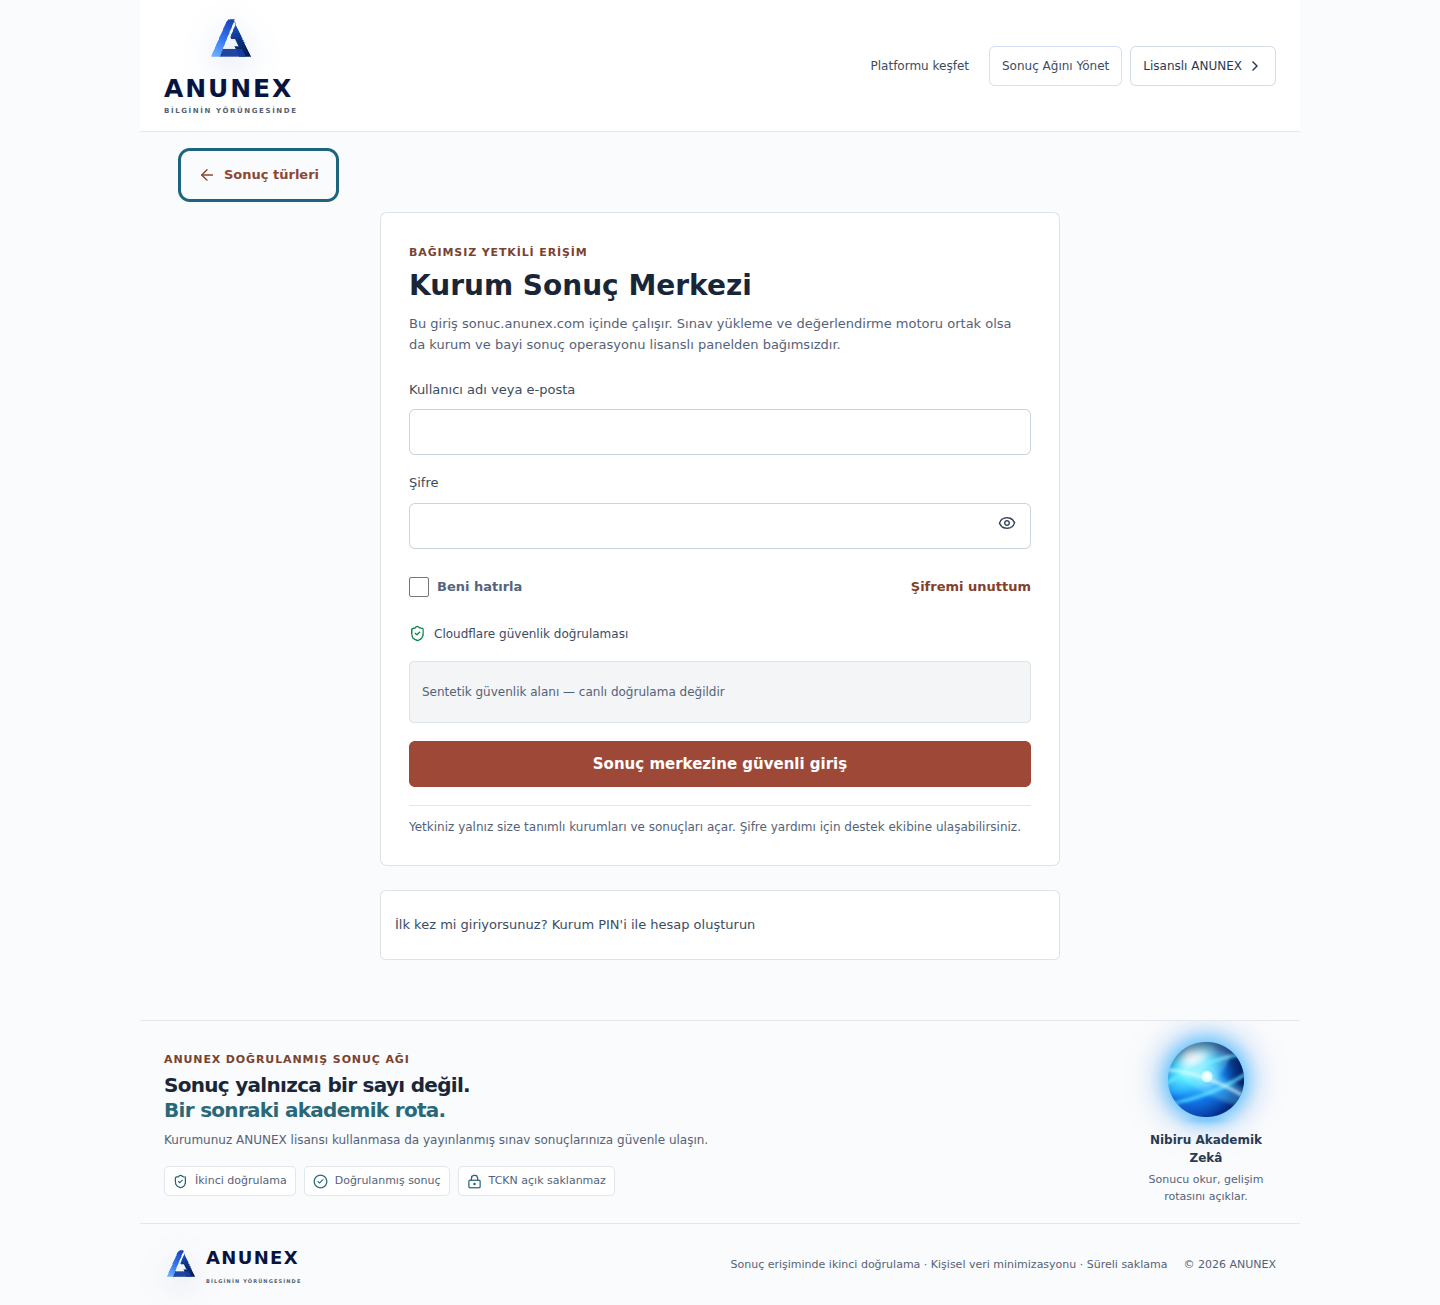
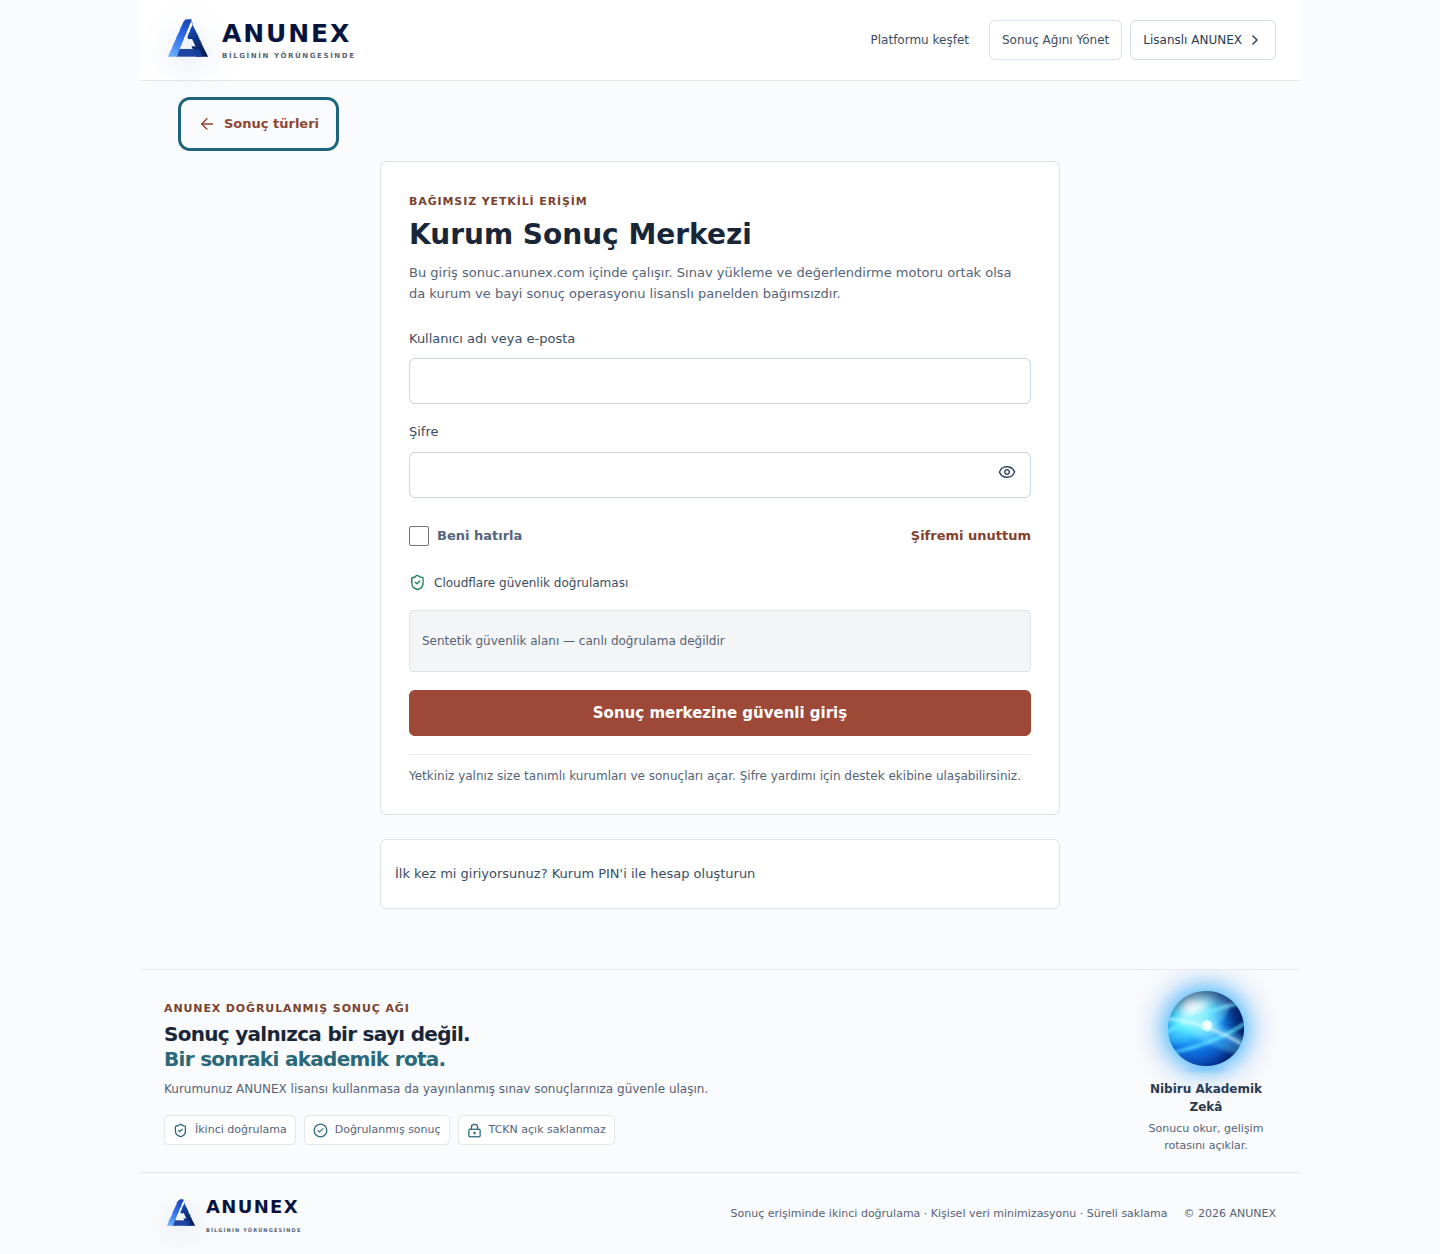
design(d007): Astra reference polish and current-main visual verification

diff --git a/src/pages/approved-result-institution.css b/src/pages/approved-result-institution.css
@@ -44,7 +44,7 @@
  .result-portal.approved-result-portal[data-result-role=INSTITUTION]:not(.admin-portal-mode) th { padding:12px 14px; background:#f2f5f8; color:#28384d; font-size:12px; font-weight:600; letter-spacing:0; text-transform:none; white-space:nowrap; }
  .result-portal.approved-result-portal[data-result-role=INSTITUTION]:not(.admin-portal-mode) td { padding:14px; border-top:1px solid #e2e7ed; color:#35465d; font-size:13px; line-height:1.5; vertical-align:middle; }
  .result-portal.approved-result-portal[data-result-role=INSTITUTION]:not(.admin-portal-mode) td small { color:#536176; font-size:12px; }
- .result-portal.approved-result-portal[data-result-role=INSTITUTION]:not(.admin-portal-mode) .summary-strip { display:grid; grid-template-columns:repeat(5,minmax(0,1fr)); gap:0; border:1px solid #dde4e8; border-radius:6px; overflow:hidden; background:#fff; }
+ .result-portal.approved-result-portal[data-result-role=INSTITUTION]:not(.admin-portal-mode) .summary-strip { display:grid; grid-template-columns:repeat(3,minmax(0,1fr)); gap:0; border:1px solid #dde4e8; border-radius:6px; overflow:hidden; background:#fff; }
  .result-portal.approved-result-portal[data-result-role=INSTITUTION]:not(.admin-portal-mode) .summary { min-width:0; padding:14px; border:0; border-right:1px solid #e2e7ed; border-radius:0; box-shadow:none; }
  .result-portal.approved-result-portal[data-result-role=INSTITUTION]:not(.admin-portal-mode) .summary span { color:#536176; font-size:12px; }
  .result-portal.approved-result-portal[data-result-role=INSTITUTION]:not(.admin-portal-mode) .summary strong { color:#24364b; font-size:23px; font-weight:600; }

diff --git a/docs/design/approved-result-institution/README.md b/docs/design/approved-result-institution/README.md
@@ -13,13 +13,11 @@ Yalnız görünüm. Mevcut Türkçe metinler, erişim doğrulaması, state/effec
 - Mevcut rapor ön izlemesi kesin yayımlanmış sonuç gibi gösterilmez; eksik sıralama/puan sıfır yapılmaz.
 - Büyük tanıtım alanı küçültülür; seçilen rolün form/iş alanı öne alınır. Orijinal marka ve Nibiru varlıkları korunur.
 
-## Kapsam dışı teknik uyumsuzluk
+## Teknik eşgüdüm ve yayın
 
-Son karar: sonuç portalında genel öğrenci sicili eşleştirmesi istenmiyor; yalnız çift optikte eşleşmeyen kayıtlar istisna olabilir. Mevcut operasyon bileşeni genel MATCH/GUEST/CANCEL incelemesi içeriyor. Bu tasarım işi bunları kaldırmaz veya gizlemez; ayrı teknik düzeltme gerekir. Mevcut ağ yöneticisi yerleşimi de işleyiş değişikliği yapılmadan korunur. Öğrencinin sonuç erişim kodu doğrulaması bu eşleştirmeden farklıdır ve korunur.
+Bu tasarımlar güncel teknik ana dal 32bb3e622f3a5a2f48eef08607abdce1e9baee01 üzerine birlikte alınarak yeniden doğrulanır. S030/S031 teknik çalışmaları genel misafir adımını kaldırdı, kurum raporu/karneleri ve ayrı yazdırma akışını ekledi. Bu PR bu iş kurallarını değiştirmez. Eski rapor ekran görüntüleri güncel görüntülerle yenilenir; sentetik kontrol canlı veri veya fiziksel çıktı kanıtı değildir.
 
-## Yayın
-
-Normal app üretim dağıtımı, sonuç portalının dağıtıldığı anlamına gelmez. Mevcut `Deploy ANUNEX Result Network` iş akışı main dalından ayrıca çalıştırılmalı; önceden bağlı alan adı için `attach_domain=false`. Korunan `.github/` tetikleyicisi değiştirilmez.
+S031 ile sonuç portalı, başarılı `Deploy Production Cloudflare Worker` dağıtımını aynı commit üzerinden izler. Üretim ortamı onayı korunur. Sonuç portalının kendi `Deploy ANUNEX Result Network` çalışması başarıyla bitmeden portal canlı kabul edilmez. Tasarım işi `.github/` dosyalarına dokunmaz.
 
 ## Bu adım
 
@@ -30,3 +28,13 @@ Kurum: parola gösterme/gizleme, beni hatırla, güvenlik alanı, mevcut ilk gir
 Onaylı görsel: https://chatgpt.com/library?file_id=libfile_5e849cad44708191b270b0a7c4913f30&account_id=personal
 
 Güncel ana dal 6c5579f22e6e850fb88bd783757099b357995a95 üzerinde typecheck/build ve 321 dosya / 1423 test geçti. Üç rol + uygulama kabuğu için toplam 42 sentetik tarayıcı senaryosu doğrulandı.
+
+## Astra son görsel incelemesi
+
+Onaylı üç referans ve mevcut görüntüler Astra tarafından incelendi. Orijinal marka yatay hizaya alındı; telefonda üç bağlantı kompakt ve 40 px hedeflerle korundu. Bayi ana işlemi onaylı sıcak vurgu rengine getirildi. Kurum/bayi özetleri yeni üçlü teknik yapıya uyarlandı. İşleyiş, metinler ve yetkiler değiştirilmedi.
+
+## Güncel ana dal kontrol notu
+
+32bb3e62 üzerinde typecheck/build geçti. Tam yerel koşu: 317 dosya başarılı, 5 dosyada 6 süre aşımı (toplam322 dosya/1427 test). Test dosyaları ve süre sınırları değiştirilmedi; ayrı tekrar yapıldı. Son merge için güncel PR GitHub verify kontrollerinin tamamının başarı koşulu korunur.
+
+S031 kurum raporunda önceki `reportSource` yayın/önizleme etiketi artık görünmüyor. Bu görünüm PR’si bunu değiştirmiyor; teknik inceleme gerektirir. Raporda yayın/önizleme ayrımının eksiksiz korunduğu iddia edilmez.
